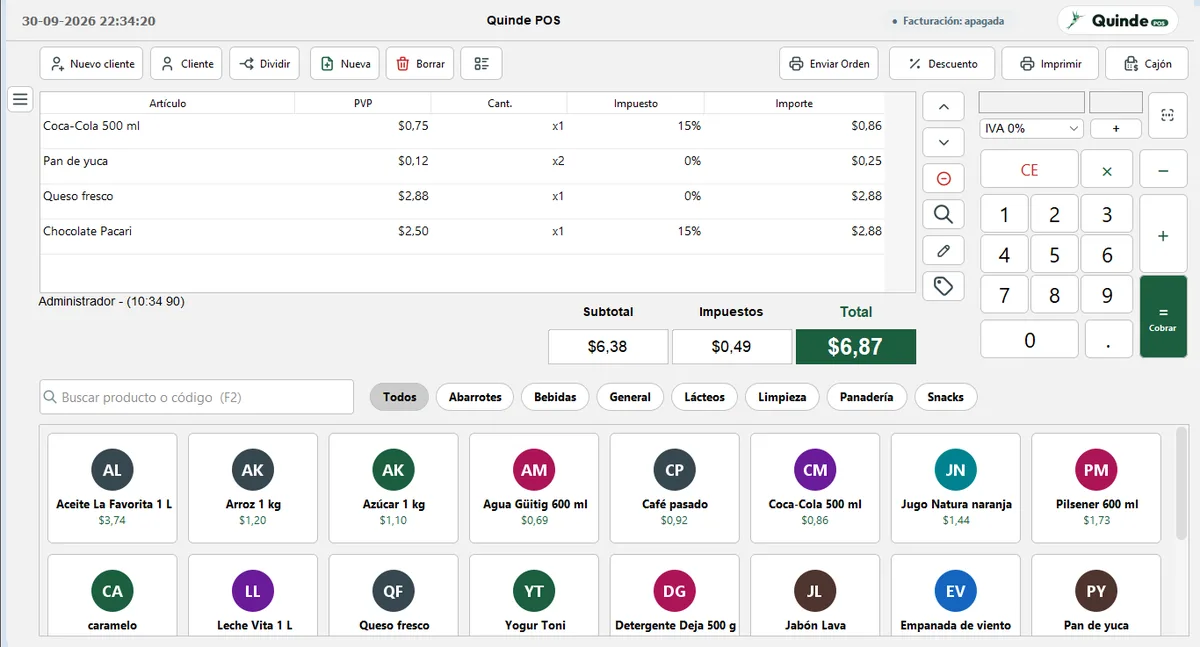
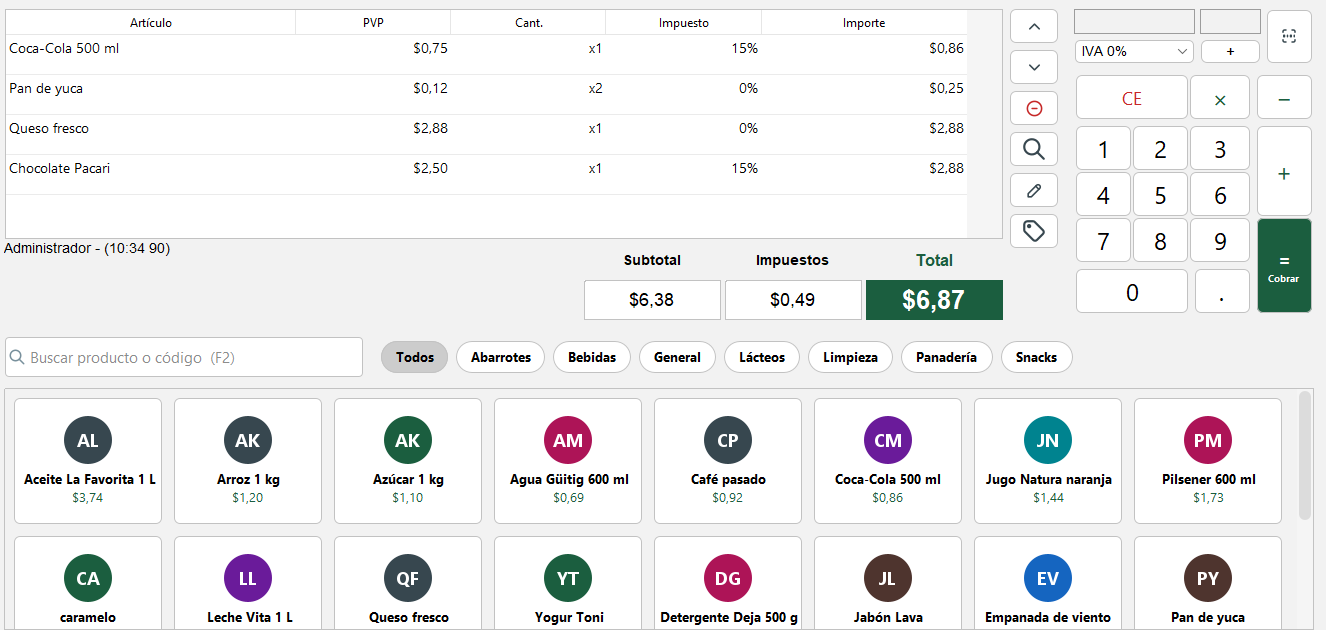
Imágenes nítidas (recortes sin pérdida, 2x) con ticket de factura en Quinde; trabajo actual en Moda RM; correo de contacto corregido

diff --git a/index.html b/index.html
@@ -64,7 +64,7 @@
         "name": "Richard Stalyn Rodriguez Villarreal",
         "url": "https://riccijandro.cyrshop.app/",
         "image": "https://riccijandro.cyrshop.app/img/avatar.png",
-        "email": "mailto:riccijandro.dev@gmail.com",
+        "email": "mailto:richardrodriguez271@gmail.com",
         "sameAs": [
           "https://github.com/riccijandro",
           "https://www.linkedin.com/in/riccijandro"
@@ -89,7 +89,7 @@
         ],
         "worksFor": {
           "@type": "Organization",
-          "name": "Hospital San Vicente de Paul"
+          "name": "Moda RM"
         },
         "address": {
           "@type": "PostalAddress",
@@ -232,8 +232,8 @@
               </div>
             </div>
             <div class="project-visual project-shots">
-              <img class="shot-desktop" src="img/valkyria-panel.webp" alt="Panel de administración de Valkyria con cobros del día, números del mes y atletas por atender" width="1200" height="769" loading="lazy" />
-              <img class="shot-phone" src="img/valkyria-app.webp" alt="Pantalla de inicio de la app de Valkyria para atletas" width="360" height="628" loading="lazy" />
+              <img class="shot-desktop" src="img/valkyria-panel.webp" alt="Panel de Valkyria: cobros del día, números del mes y atletas por atender con WhatsApp" width="1200" height="1169" loading="lazy" />
+              <img class="shot-phone" src="img/valkyria-app.webp" alt="Pantalla de inicio de la app de Valkyria para atletas" width="600" height="923" loading="lazy" />
             </div>
           </article>
 
@@ -259,7 +259,8 @@
               </div>
             </div>
             <div class="project-visual project-shots">
-              <img class="shot-desktop" src="img/quinde-venta.webp" alt="Pantalla de venta de Quinde POS con productos por categoría y total a cobrar" width="1200" height="647" loading="lazy" />
+              <img class="shot-desktop" src="img/quinde-venta.webp" alt="Pantalla de venta de Quinde POS con artículos, totales y botón Cobrar" width="1326" height="630" loading="lazy" />
+              <img class="shot-phone shot-ticket" src="img/quinde-ticket.webp" alt="Ticket impreso con la factura electrónica y la clave de acceso del SRI" width="328" height="745" loading="lazy" />
             </div>
           </article>
 
@@ -380,6 +381,14 @@
             <li class="reveal">
               <p class="tl-date">Actualidad</p>
               <div>
+                <h3>Moda RM</h3>
+                <p class="tl-role">Asesor comercial</p>
+                <p>Asesoría en tecnología y electrodomésticos: acompaño al cliente desde que busca un producto hasta que lo tiene en casa y armo su plan de pago con Crédito Directo RM.</p>
+              </div>
+            </li>
+            <li class="reveal">
+              <p class="tl-date">Anterior</p>
+              <div>
                 <h3>Hospital San Vicente de Paul</h3>
                 <p class="tl-role">Apoyo técnico y operativo · Ibarra</p>
                 <p>Resolución de incidencias, estabilidad operativa y mejora continua de procesos internos en un entorno crítico.</p>
@@ -470,7 +479,7 @@
               rel="noopener"
               >Escribir por WhatsApp</a
             >
-            <a class="btn btn-outline btn-lg" href="mailto:riccijandro.dev@gmail.com">riccijandro.dev@gmail.com</a>
+            <a class="btn btn-outline btn-lg" href="mailto:richardrodriguez271@gmail.com">richardrodriguez271@gmail.com</a>
           </div>
           <ul class="contact-links">
             <li><a href="https://github.com/riccijandro" target="_blank" rel="noopener">GitHub ↗</a></li>

diff --git a/styles.css b/styles.css
@@ -758,6 +758,12 @@ p {
   border: 3px solid var(--surface);
 }
 
+/* Quinde: el ticket es más angosto que el celular. */
+.project-shots .shot-ticket {
+  width: 23%;
+  border-radius: 6px;
+}
+
 .project-featured-reverse {
   grid-template-columns: 1fr 1.1fr;
 }
